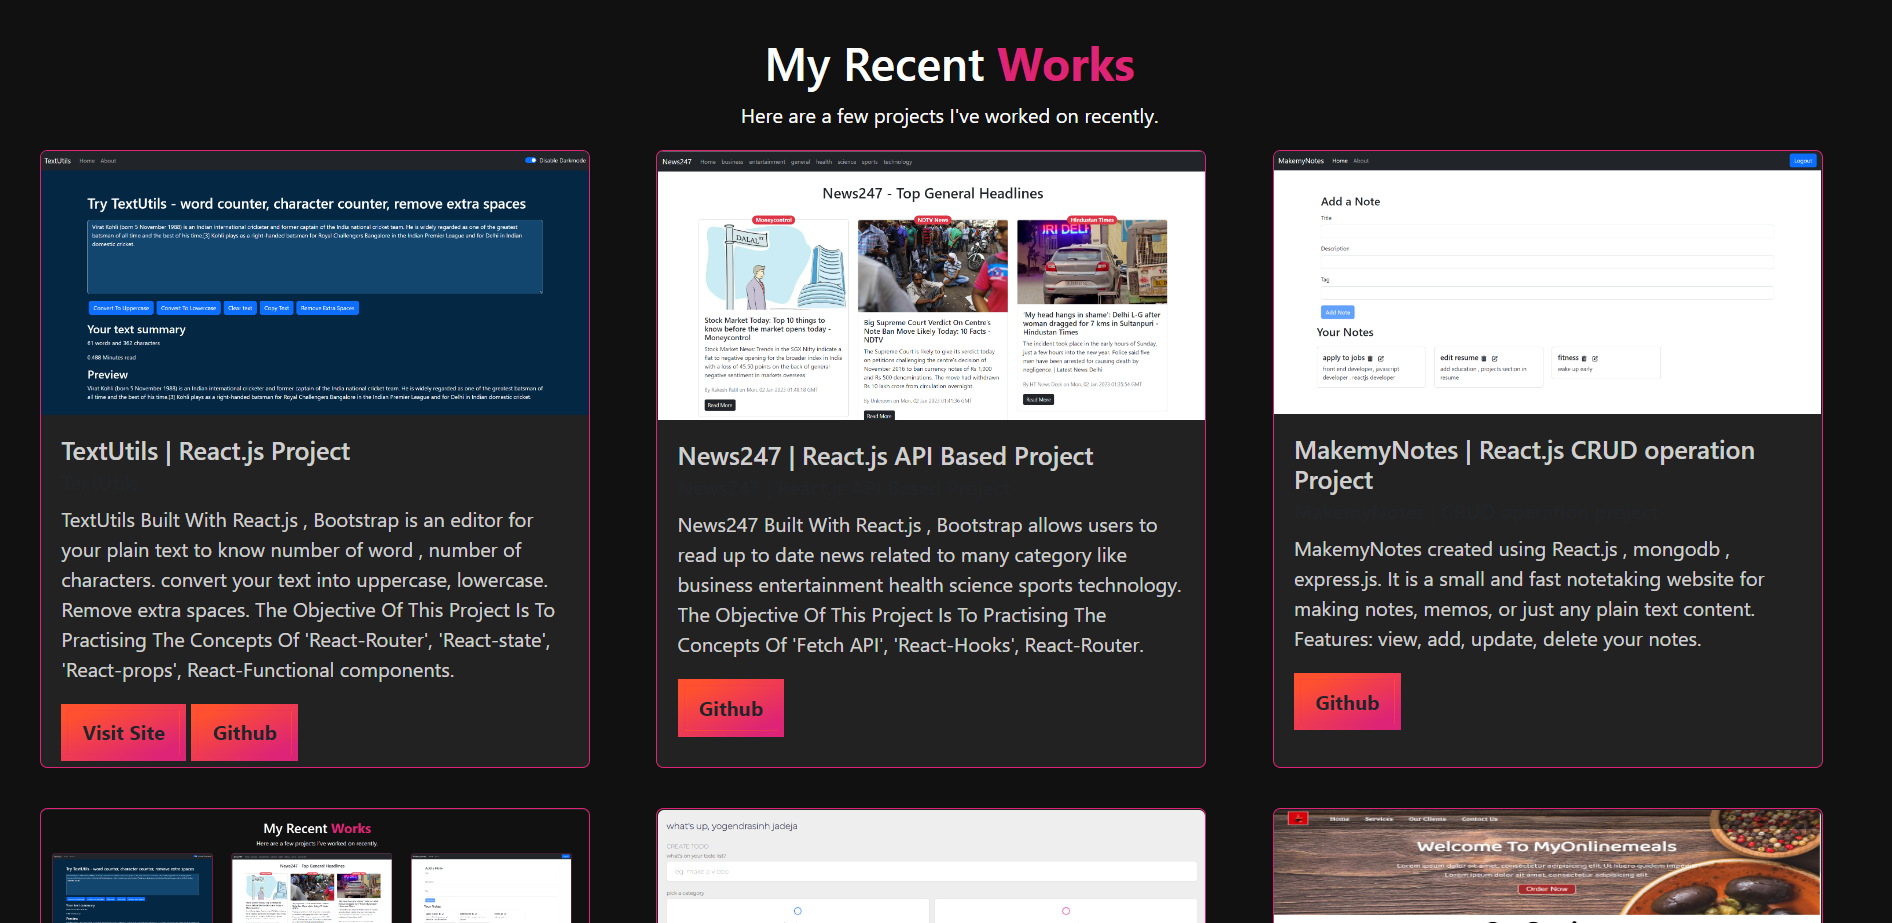
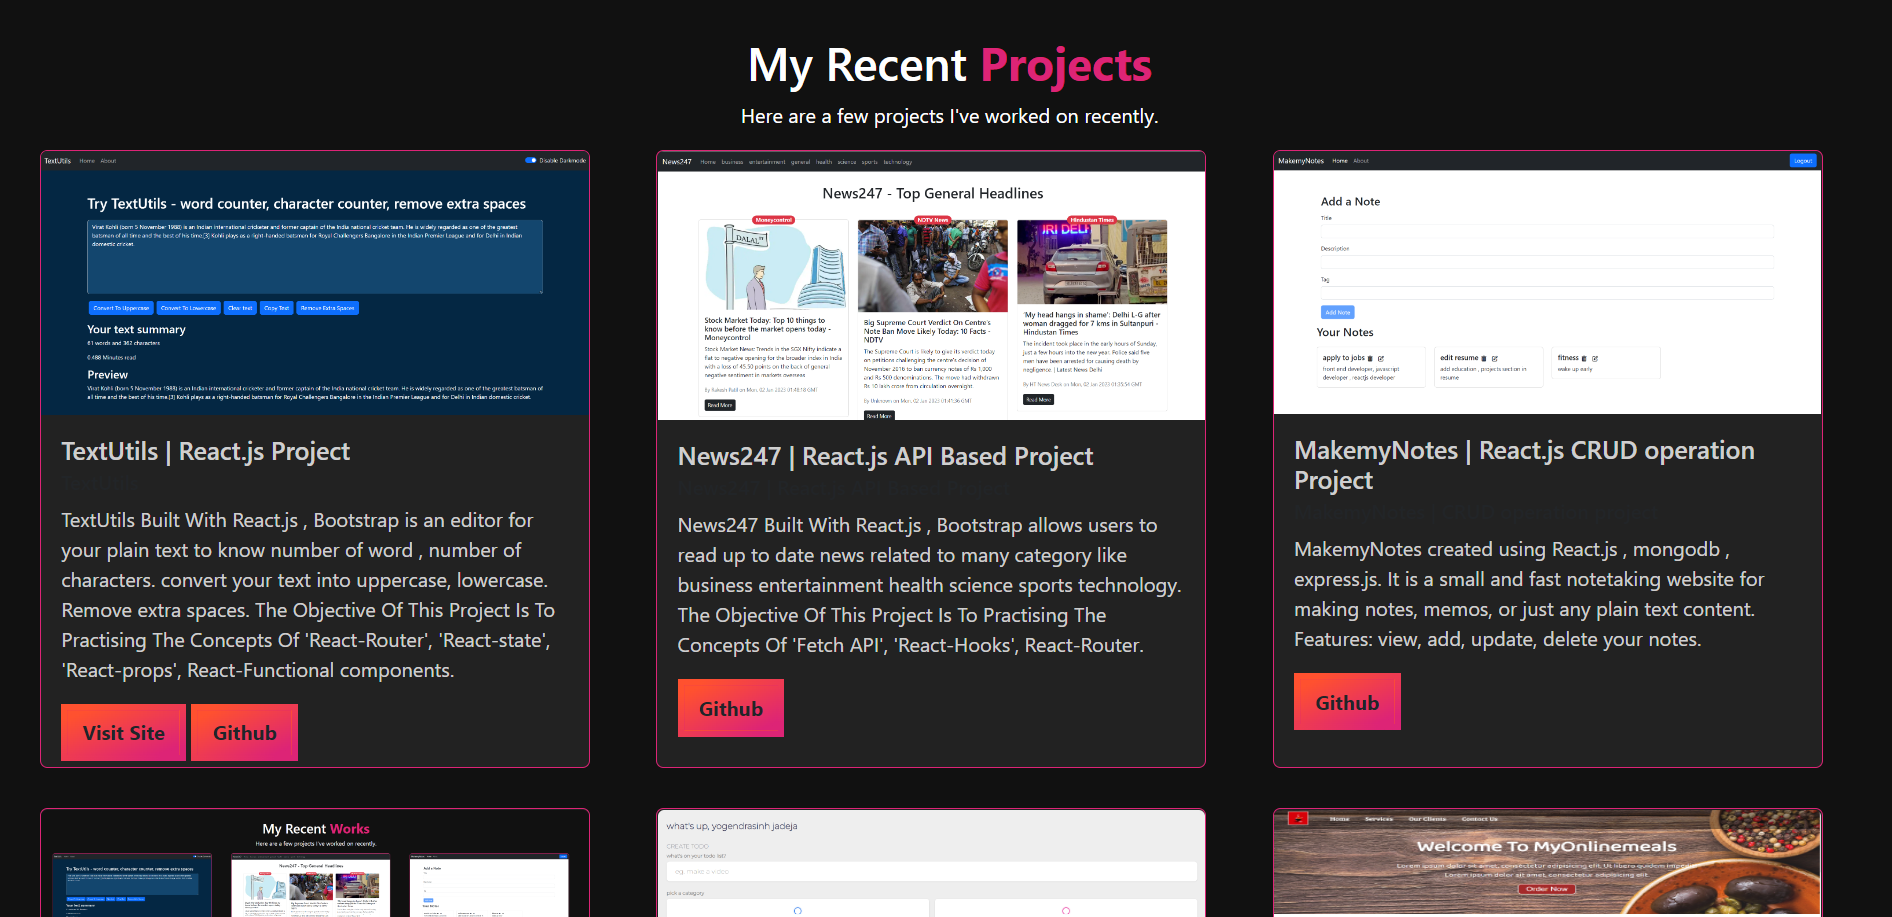
bug fixed

diff --git a/index.html b/index.html
@@ -10,15 +10,9 @@
     <link rel="shortcut icon" href="./Images/favicon.jpg" type="image/round">
 </head>
 <body>
-  <!-- <h1 class="project-heading">
-    My Recent <strong class="purple">Works </strong>
-  </h1>
-  <p style="color: white;">
-    Here are a few projects I've worked on recently.
-  </p> -->
   <div class="tagline">
     <h1 class="project-heading">
-      My Recent <strong class="purple">Works </strong>
+      My Recent <strong class="purple">Projects </strong>
     </h1>
     <p style="color: white;">
       Here are a few projects I've worked on recently.
